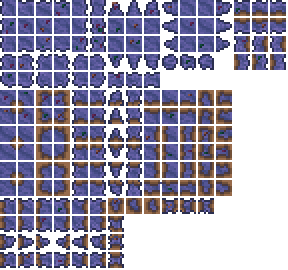
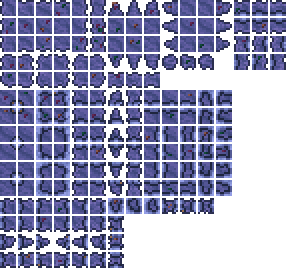
fixes, additions
- add marine generation
- fix fluorite bar requiring only 3 ore
- fix phlegmarang being infinitely shootable
- fix marine sandstone tilesheet having wrong merge frames
- fix ores not being TileID.Sets.Ores[Type] = true (this also fixes Avalon's Calculator Spectacles not working with these ores)
- Scorching ice biome now only draws the background when below the frozen lava generation line (approximately)
- fix rhyolite music slot (it should have been -1)
- fix map color of marine sand

diff --git a/Content/WorldGeneration/DesertModifications.cs b/Content/WorldGeneration/DesertModifications.cs
@@ -1,4 +1,7 @@
-using System.Collections.Generic;
+using Microsoft.CodeAnalysis.CSharp.Syntax;
+using Microsoft.Xna.Framework;
+using ReLogic.Content;
+using System.Collections.Generic;
 using Terraria;
 using Terraria.ID;
 using Terraria.IO;
@@ -6,6 +9,7 @@ using Terraria.Localization;
 using Terraria.ModLoader;
 using Terraria.WorldBuilding;
 using Xenon.Content.Tiles.ActiveAndWiring.Traps;
+using Xenon.Content.Tiles.Natural.OceanAndTheMarine;
 
 namespace Xenon.Content.WorldGeneration;
 
@@ -18,6 +22,13 @@ internal class DesertModifications : ModSystem
 		if (index != -1)
 		{
 			currentPass = new QuicksandPass();
+			tasks.Insert(index + 1, currentPass);
+			totalWeight += currentPass.Weight;
+		}
+		index = tasks.FindIndex(genPass => genPass.Name == "Create Ocean Caves");
+		if (index != -1)
+		{
+			currentPass = new MirageThingOhLookItsTotallyAnOriginalBiomeIdeaLetsJustStealAVanillaBiomeAndReplaceItEntirelyAndGenerateTheBiomeOverTheUndergroundDesertOMQWhyIsThisAThingNowIDontLikeThisIdeaWhy();
 			tasks.Insert(index + 1, currentPass);
 			totalWeight += currentPass.Weight;
 		}
@@ -92,6 +103,68 @@ internal class PowderedSnowPass : GenPass
 				if ((Main.tile[i, j].TileType == TileID.IceBlock || Main.tile[i, j].TileType == TileID.SnowBlock) && WorldGen.genRand.NextBool(20) && !Main.tileSolid[Main.tile[i, j - 1].TileType])
 				{
 					WorldGen.TileRunner(i, j, 9, 12, (ushort)ModContent.TileType<PowderedSnow>());
+				}
+			}
+		}
+	}
+}
+
+public class MirageThingOhLookItsTotallyAnOriginalBiomeIdeaLetsJustStealAVanillaBiomeAndReplaceItEntirelyAndGenerateTheBiomeOverTheUndergroundDesertOMQWhyIsThisAThingNowIDontLikeThisIdeaWhy : GenPass
+{
+	public MirageThingOhLookItsTotallyAnOriginalBiomeIdeaLetsJustStealAVanillaBiomeAndReplaceItEntirelyAndGenerateTheBiomeOverTheUndergroundDesertOMQWhyIsThisAThingNowIDontLikeThisIdeaWhy() : base("Mirage", 10f)
+	{
+	}
+
+	protected override void ApplyPass(GenerationProgress progress, GameConfiguration configuration)
+	{
+		progress.Message = Language.GetTextValue("Mods.Xenon.Generation.UndergroundOcean");
+
+		int xStart = 0;
+		int xEnd = 0;
+		if (GenVars.dungeonSide == -1)
+		{
+			xStart = GenVars.rightBeachStart;
+			xEnd = Main.maxTilesX - 10;
+		}
+		else if (GenVars.dungeonSide == 1)
+		{
+			xStart = 10;
+			xEnd = GenVars.leftBeachEnd;
+		}
+
+		for (int x = xStart; x <= xEnd; x++)
+		{
+			for (int y = (int)Main.worldSurface - 40; y <= GenVars.lavaLine; y++)
+			{
+				if (Main.tile[x, y].LiquidAmount > 0 || !Main.tile[x, y].HasTile || !Main.tileSolid[Main.tile[x, y].TileType]) continue;
+				if ((TileID.Sets.Grass[Main.tile[x, y].TileType] || Main.tile[x, y].TileType == TileID.Dirt) && Main.tile[x, y].HasTile) continue;
+				if (!Main.tile[x, y + 1].HasTile && Main.tile[x, y].TileType != TileID.Granite && Main.tile[x, y].TileType != TileID.Marble)
+				{
+					Main.tile[x, y].TileType = (ushort)ModContent.TileType<MarineSandstone>();
+				}
+				else if (TileID.Sets.CanBeClearedDuringOreRunner[Main.tile[x, y].TileType])
+				{
+					Main.tile[x, y].TileType = (ushort)ModContent.TileType<MarineSand>();
+				}
+			}
+		}
+		for (int x = xStart; x <= xEnd; x++)
+		{
+			for (int y = (int)Main.worldSurface - 40; y <= GenVars.lavaLine; y++)
+			{
+				if (x == xStart || x == xEnd)
+				{
+					if (y % 5 == 0)
+					{
+						WorldGen.TileRunner(x, y, WorldGen.genRand.Next(10, 13), WorldGen.genRand.Next(11, 14), ModContent.TileType<HardenedMarineSand>(), ignoreTileType: TileID.Grass);
+					}
+				}
+				if (y == GenVars.lavaLine)
+				{
+					if (x % 5 == 0)
+					{
+						WorldGen.TileRunner(x, y, WorldGen.genRand.Next(10, 13), WorldGen.genRand.Next(11, 14), ModContent.TileType<HardenedMarineSand>(), ignoreTileType: TileID.Grass);
+					}
 				}
 			}
 		}

diff --git a/Common/Globals/XenonWorld.cs b/Common/Globals/XenonWorld.cs
@@ -1,8 +1,12 @@
-using Microsoft.Xna.Framework;
+using Avalon.Biomes;
+using Microsoft.Xna.Framework;
 using System;
 using Terraria;
+using Terraria.GameContent.Biomes;
 using Terraria.ID;
 using Terraria.ModLoader;
+using Terraria.ModLoader.IO;
+using Terraria.WorldBuilding;
 using Xenon.Common.Systems;
 using Xenon.Content.Tiles.Natural.Corrosion;
 using Xenon.Content.Tiles.Natural.MountainsAndTheKarst;
@@ -10,9 +14,35 @@ using Xenon.Content.Tiles.Natural.MountainsAndTheKarst.Mossy;
 
 namespace Xenon.Common.Globals;
 
+internal class LavaLineSaving : ModHook
+{
+	protected override void Apply()
+	{
+		On_TerrainPass.ApplyPass += On_TerrainPass_ApplyPass;
+
+	}
+	private void On_TerrainPass_ApplyPass(On_TerrainPass.orig_ApplyPass orig, TerrainPass self, GenerationProgress progress, Terraria.IO.GameConfiguration configuration)
+	{
+        orig.Invoke(self, progress, configuration);
+        ModContent.GetInstance<XenonWorld>().LavaLine = GenVars.lavaLine;
+	}
+}
 internal class XenonWorld : ModSystem
 {
-    public override void ModifySunLightColor(ref Color tileColor, ref Color backgroundColor)
+    public int LavaLine = 0;
+	public override void SaveWorldData(TagCompound tag)
+	{
+        tag["Xenon:LavaLine"] = LavaLine;
+	}
+	public override void LoadWorldData(TagCompound tag)
+	{
+        if (tag.ContainsKey("Xenon:LavaLine"))
+        {
+            LavaLine = tag.GetAsInt("Xenon:LavaLine");
+        }
+        else LavaLine = (int)(Main.rockLayer + (double)Main.maxTilesY) / 2;
+	}
+	public override void ModifySunLightColor(ref Color tileColor, ref Color backgroundColor)
     {
         float CorrosionStrength = ModContent.GetInstance<BiomeTileCounts>().CorrosionTiles / 350f;
         //if (CaptureManager.Instance.Active && CaptureManager.Instance.IsCapturing && CaptureInterface.Settings.BiomeChoiceIndex == AddModdedCaptureBiomes.biomeCapturesIndexs[0])

diff --git a/Content/Biomes/UndergroundOcean.cs b/Content/Biomes/UndergroundOcean.cs
@@ -13,11 +13,11 @@ public class UndergroundOcean : ModBiome
     //public override string MapBackground => BackgroundPath;
     public override int Music => MusicID.Ocean; //might change this in the future. who knows
     //public override string BestiaryIcon => base.BestiaryIcon;
-    public override SceneEffectPriority Priority => SceneEffectPriority.BiomeLow; //not sure what the best priority for it would be so
+    public override SceneEffectPriority Priority => SceneEffectPriority.BiomeMedium; //not sure what the best priority for it would be so
 
     public override bool IsBiomeActive(Player player)
     {
-        return ModContent.GetInstance<BiomeTileCounts>().UndergroundOceanTile >= 1 && (player.ZoneDirtLayerHeight || player.ZoneRockLayerHeight);
+        return ModContent.GetInstance<BiomeTileCounts>().UndergroundOceanTiles >= 50 && (player.ZoneDirtLayerHeight || player.ZoneRockLayerHeight) && player.position.X < WorldGen.beachDistance && player.position.X > Main.maxTilesX - WorldGen.beachDistance;
     }
     public override ModUndergroundBackgroundStyle UndergroundBackgroundStyle
     {

diff --git a/Common/Systems/BiomeTileCounts.cs b/Common/Systems/BiomeTileCounts.cs
@@ -24,7 +24,7 @@ public class BiomeTileCounts : ModSystem
     public int SomnolentTiles { get; private set; }
     public int FrozenLavaTiles { get; private set; }
     public int MountainTiles { get; set; }
-    public int UndergroundOceanTile { get; set; }
+    public int UndergroundOceanTiles { get; set; }
     public int ForestMushroomTiles { get; set; }
     public int CorrosionJungleTiles { get; set; }
     public int CorruptionJungleTiles { get; set; }
@@ -52,7 +52,7 @@ public class BiomeTileCounts : ModSystem
         Main.SceneMetrics.HolyTileCount += tileCounts[ModContent.TileType<MossyHelioStone>()];
 
 
-        UndergroundOceanTile = tileCounts[ModContent.TileType<MarineSand>()] +
+        UndergroundOceanTiles = tileCounts[ModContent.TileType<MarineSand>()] +
                                tileCounts[ModContent.TileType<HardenedMarineSand>()] +
                                tileCounts[ModContent.TileType<MarineSandstone>()] +
                                tileCounts[ModContent.TileType<MarineQuicksand>()];

diff --git a/Common/Globals/XenonItemGlobals/RecipeSorting.cs b/Common/Globals/XenonItemGlobals/RecipeSorting.cs
@@ -38,7 +38,7 @@ namespace Xenon.Common.Globals.XenonItemGlobals
 {
     public class RecipeSorting : ModSystem
     {
-        //cleverly using the fact that these recipes will load in the order to put them in, too properly sort them into the crafting ui
+        //cleverly using the fact that these recipes will load in the order to put them in, to properly sort them into the crafting ui
         public override void AddRecipes()
         {
             #region Building Block
@@ -1274,7 +1274,7 @@ namespace Xenon.Common.Globals.XenonItemGlobals
             #region Fluortie Recipes
             //Bar
             Recipe.Create(ModContent.ItemType<FluoriteBar>())
-                .AddIngredient(ModContent.ItemType<FluoriteOreBlock>(), 3)
+                .AddIngredient(ModContent.ItemType<FluoriteOreBlock>(), 4)
                 .AddTile(TileID.Furnaces)
                 .SortAfterFirstRecipesOf(ItemID.GoldCrown)
                 .Register();

diff --git a/Content/Biomes/ScorchingIce.cs b/Content/Biomes/ScorchingIce.cs
@@ -1,6 +1,8 @@
 using Terraria;
 using Terraria.ID;
 using Terraria.ModLoader;
+using Terraria.WorldBuilding;
+using Xenon.Common.Globals;
 using Xenon.Common.Systems;
 
 namespace Xenon.Content.Biomes;
@@ -14,7 +16,7 @@ public class ScorchingIce : ModBiome
     public override SceneEffectPriority Priority => SceneEffectPriority.BiomeMedium;
     public override bool IsBiomeActive(Player player)
     {
-        return ModContent.GetInstance<BiomeTileCounts>().FrozenLavaTiles > 150 && player.ZoneRockLayerHeight;
+        return ModContent.GetInstance<BiomeTileCounts>().FrozenLavaTiles > 150 && player.ZoneRockLayerHeight && player.position.Y / 16 > ModContent.GetInstance<XenonWorld>().LavaLine - 150;
     }
     public override ModUndergroundBackgroundStyle UndergroundBackgroundStyle
     {

diff --git a/Content/Tiles/Natural/Ores/PreHardOres/AluminumOre.cs b/Content/Tiles/Natural/Ores/PreHardOres/AluminumOre.cs
@@ -50,10 +50,11 @@ public class AluminumOre : ModTile
         Main.tileBlockLight[Type] = true;
         Main.tileMerge[Type][TileID.Mud] = true;
         Main.tileMerge[TileID.Mud][Type] = true;
-        AddMapEntry(new Color(146, 157, 155));
+        AddMapEntry(new Color(146, 157, 155), this.GetLocalization("MapEntry"));
         HitSound = SoundID.Tink;
         DustType = ModContent.DustType<AluminumDust>();
-    }
+		TileID.Sets.Ore[Type] = true;
+	}
 
     public override void NumDust(int i, int j, bool fail, ref int num)
     {

diff --git a/Content/Tiles/Natural/Ores/PreHardOres/FluoriteOre.cs b/Content/Tiles/Natural/Ores/PreHardOres/FluoriteOre.cs
@@ -49,10 +49,11 @@ public class FluoriteOre : ModTile
         Main.tileBlockLight[Type] = true;
         Main.tileMerge[Type][TileID.Mud] = true;
         Main.tileMerge[TileID.Mud][Type] = true;
-        AddMapEntry(new Color(255, 48, 148));
+        AddMapEntry(new Color(255, 48, 148), this.GetLocalization("MapEntry"));
         HitSound = SoundID.Tink;
         DustType = ModContent.DustType<FluoriteDust>();
-    }
+		TileID.Sets.Ore[Type] = true;
+	}
 
     public override void NumDust(int i, int j, bool fail, ref int num)
     {

diff --git a/Content/Tiles/Natural/Ores/PreHardOres/CinnabarOre.cs b/Content/Tiles/Natural/Ores/PreHardOres/CinnabarOre.cs
@@ -50,10 +50,11 @@ public class CinnabarOre : ModTile
         Main.tileBlockLight[Type] = true;
         Main.tileMerge[Type][TileID.Mud] = true;
         Main.tileMerge[TileID.Mud][Type] = true;
-        AddMapEntry(new Color(155, 1, 29));
+        AddMapEntry(new Color(155, 1, 29), this.GetLocalization("MapEntry"));
         HitSound = SoundID.Tink;
         DustType = ModContent.DustType<CinnabarDust>();
-    }
+		TileID.Sets.Ore[Type] = true;
+	}
 
     public override void NumDust(int i, int j, bool fail, ref int num)
     {

diff --git a/Content/Tiles/Natural/Ores/PreHardOres/IndiumOre.cs b/Content/Tiles/Natural/Ores/PreHardOres/IndiumOre.cs
@@ -48,10 +48,11 @@ public class IndiumOre : ModTile
         Main.tileBlockLight[Type] = true;
         Main.tileMerge[Type][TileID.Mud] = true;
         Main.tileMerge[TileID.Mud][Type] = true;
-        AddMapEntry(new Color(31, 35, 84));
+        AddMapEntry(new Color(31, 35, 84), this.GetLocalization("MapEntry"));
         HitSound = SoundID.Tink;
         DustType = ModContent.DustType<IndiumDust>();
-    }
+		TileID.Sets.Ore[Type] = true;
+	}
 
     public override void NumDust(int i, int j, bool fail, ref int num)
     {

diff --git a/Content/Tiles/Natural/Ores/Gems/JadeGemstoneBlock.cs b/Content/Tiles/Natural/Ores/Gems/JadeGemstoneBlock.cs
@@ -21,7 +21,7 @@ public class JadeGemstoneBlock : ModTile
         Main.tileShine2[Type] = true;
         Main.tileShine[Type] = 900;
         TileID.Sets.Ore[Type] = true;
-        AddMapEntry(new Color(69, 69, 69)); //Nice
+        AddMapEntry(new Color(69, 120, 69), this.GetLocalization("MapEntry")); //Nice
         RegisterItemDrop(ModContent.ItemType<Jade>());
         HitSound = SoundID.Tink;
         DustType = ModContent.DustType<JadeGemDust>();

diff --git a/Content/Tiles/Natural/Ores/Gems/GarnetGemstoneBlock.cs b/Content/Tiles/Natural/Ores/Gems/GarnetGemstoneBlock.cs
@@ -22,7 +22,7 @@ public class GarnetGemstoneBlock : ModTile
         Main.tileShine[Type] = 900;
         TileID.Sets.Ore[Type] = true;
         RegisterItemDrop(ModContent.ItemType<Garnet>());
-        AddMapEntry(new Color(206, 1, 135));
+        AddMapEntry(new Color(206, 1, 135), this.GetLocalization("MapEntry"));
         HitSound = SoundID.Tink;
         DustType = ModContent.DustType<GarnetGemDust>();
     }
